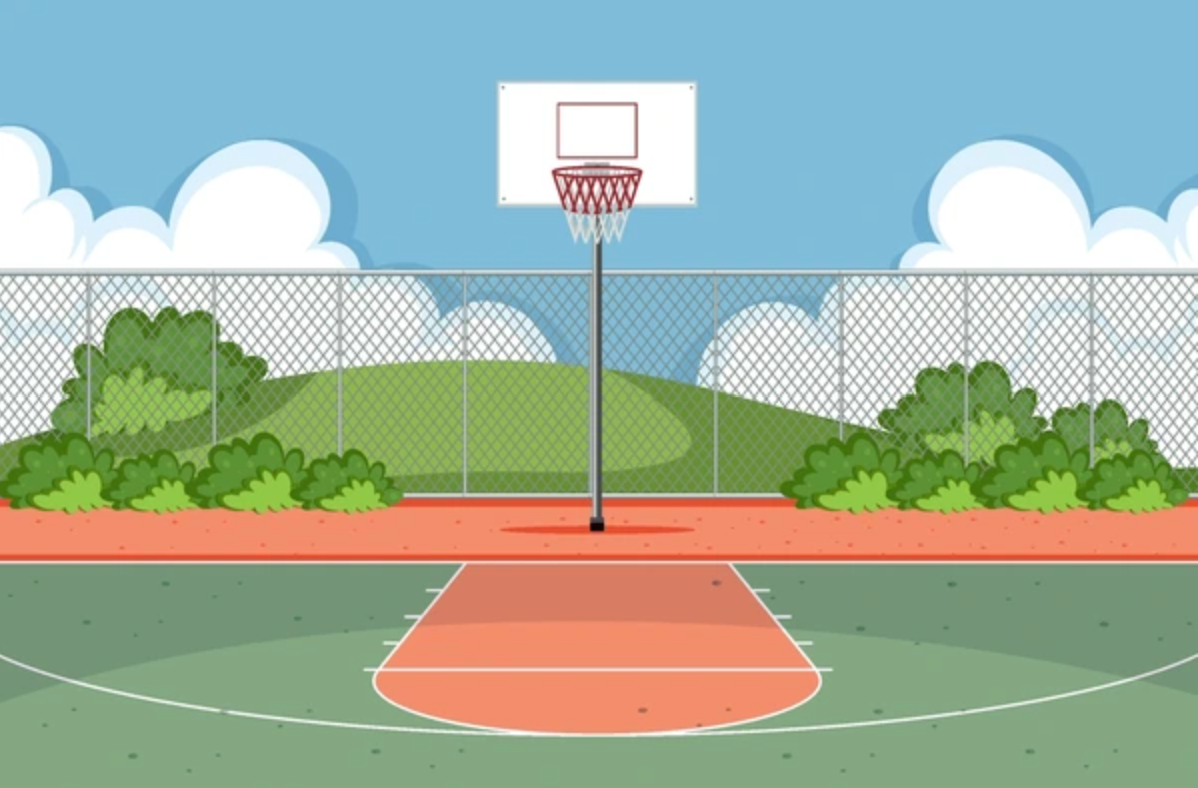
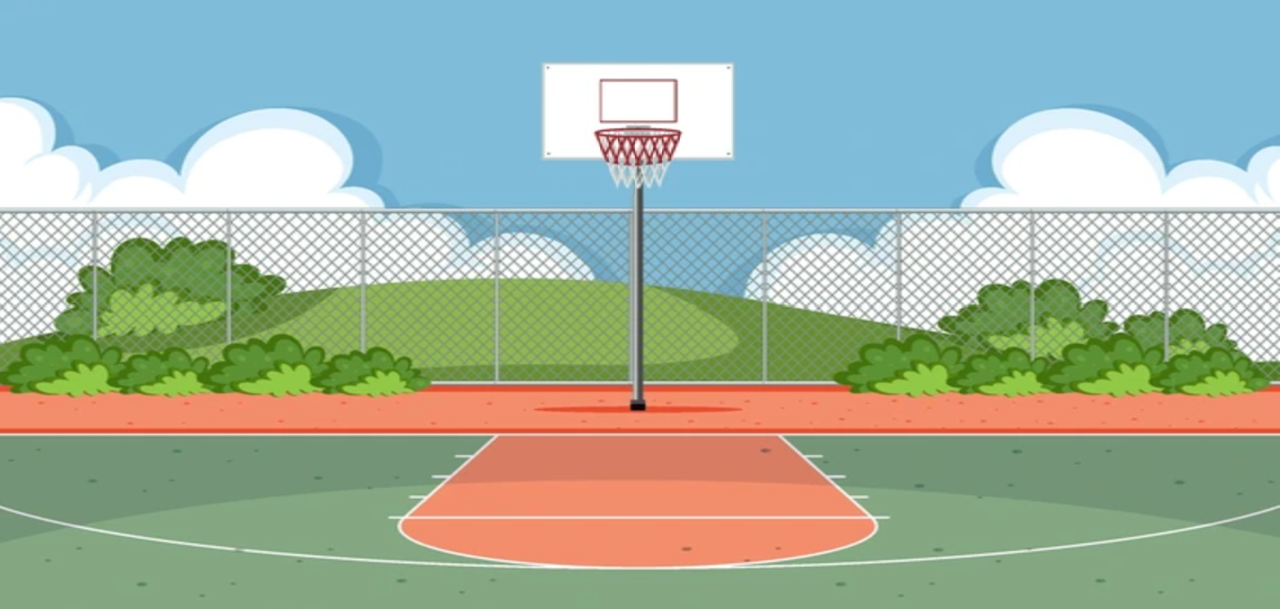
basketbackgound2

Changed region(s): [[0.4633, 0.0936, 0.5868, 0.312], [0.4015, 0.0936, 0.4324, 0.2808]]

diff --git a/game.js b/game.js
@@ -2,13 +2,13 @@
 class Example extends Phaser.Scene {
     preload() {
         this.load.setBaseURL('https://labs.phaser.io');
-        this.load.image('sky', 'https://raw.githubusercontent.com/marcles1234/BasketMadness/refs/heads/main/assets/origins.jpg');
+        this.load.image('sky', 'https://raw.githubusercontent.com/marcles1234/BasketMadness/refs/heads/main/assets/BasketCourt.png');
         this.load.image('logo', 'assets/sprites/phaser3-logo.png');
         this.load.image('red', 'assets/particles/red.png');
     }
 
     create() {
-        this.add.image(400, 300, 'sky');
+        this.add.image(600, 300, 'sky');
 
         const particles = this.add.particles(0, 0, 'red', {
             speed: 100,
